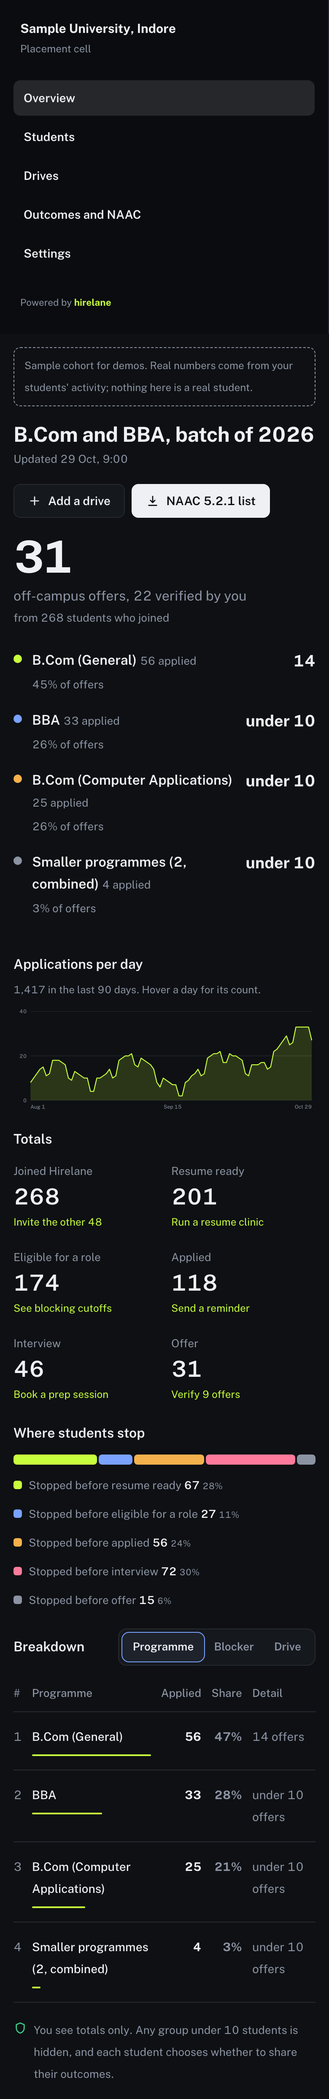
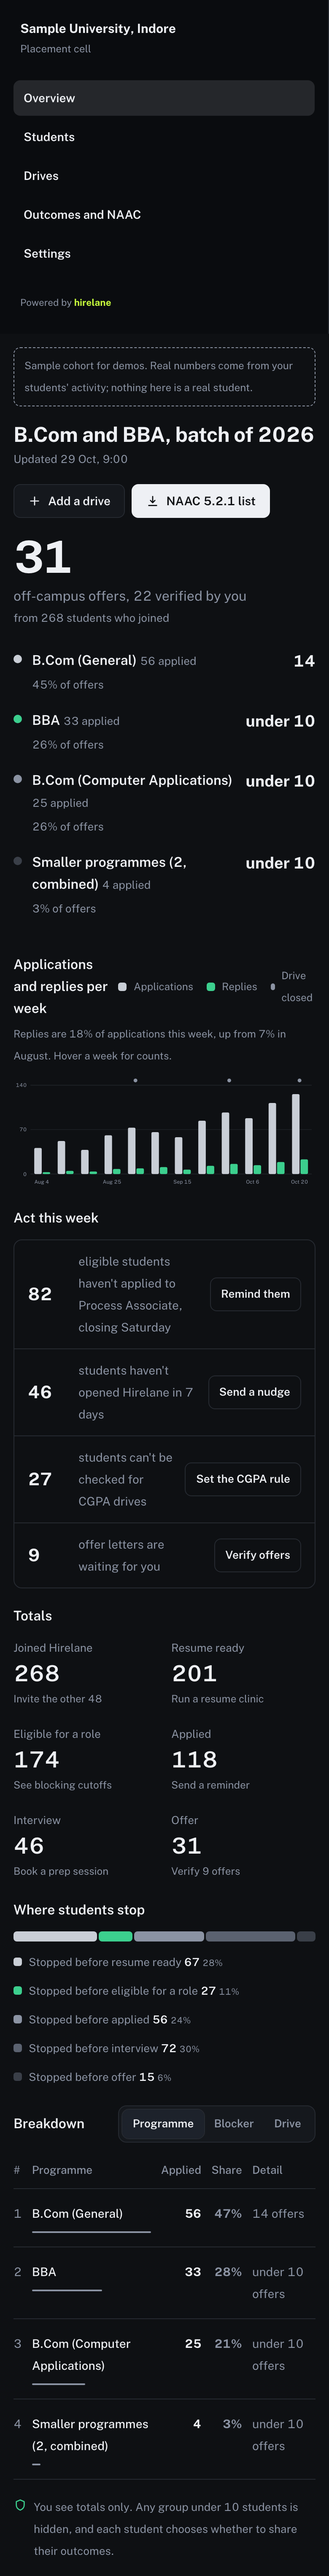
feat(web): console overview built for decisions (weekly applications vs replies with drive markers, Act this week list); calm grey palette with one green accent

diff --git a/apps/web/components/campus/Dash.tsx b/apps/web/components/campus/Dash.tsx
@@ -4,61 +4,58 @@ import { CampusShell, Icon, pct, Privacy, SampleNote } from "./Console";
 
 export type DashBy = "programme" | "blocker" | "drive";
 
-/** Deterministic sample series: applications per day for 90 days (Aug 1 to Oct 29). Real data: product_events. */
-function series(): number[] {
-  return Array.from({ length: 90 }, (_, i) => {
-    const wave = Math.sin(i / 4.2) * 6 + Math.sin(i / 11) * 4;
-    const trend = i * 0.18;
-    const weekday = i % 7 === 5 || i % 7 === 6 ? -5 : 0;
-    return Math.max(0, Math.round(8 + wave + trend + weekday));
-  });
-}
+/** Sample weekly series for 12 weeks: applications and employer replies, plus weeks a drive closed. Real data: applications + inbound_messages. */
+const WEEKS = ["Aug 4", "Aug 11", "Aug 18", "Aug 25", "Sep 1", "Sep 8", "Sep 15", "Sep 22", "Sep 29", "Oct 6", "Oct 13", "Oct 20"];
+const APPS = [41, 52, 38, 61, 73, 66, 58, 84, 97, 88, 112, 126];
+const REPLIES = [3, 5, 4, 8, 9, 11, 7, 13, 16, 14, 19, 23];
+const DRIVE_WEEKS: Record<number, string> = { 4: "Bank drive closed", 8: "Mass recruiter drive closed", 11: "Process Associate drive closed" };
 
-const W = 640;
-const H = 220;
-const PAD = { l: 36, r: 8, t: 8, b: 24 };
-
-function AreaChart({ data }: { data: number[] }) {
-  const max = Math.ceil(Math.max(...data) / 10) * 10 || 10;
-  const x = (i: number) => PAD.l + (i / (data.length - 1)) * (W - PAD.l - PAD.r);
-  const y = (v: number) => PAD.t + (1 - v / max) * (H - PAD.t - PAD.b);
-  const line = data.map((v, i) => `${i ? "L" : "M"}${x(i).toFixed(1)},${y(v).toFixed(1)}`).join(" ");
-  const area = `${line} L${x(data.length - 1)},${y(0)} L${x(0)},${y(0)} Z`;
-  const ticks = [0, max / 2, max];
-  const labels = [
-    { i: 0, t: "Aug 1" },
-    { i: 45, t: "Sep 15" },
-    { i: 89, t: "Oct 29" },
-  ];
-  const day = (i: number) => {
-    const d = new Date(Date.UTC(2026, 7, 1 + i));
-    return d.toLocaleDateString("en-IN", { day: "numeric", month: "short", timeZone: "UTC" });
-  };
+function WeeklyBars() {
+  const W = 640;
+  const H = 240;
+  const P = { l: 36, r: 8, t: 24, b: 28 };
+  const max = 140;
+  const slot = (W - P.l - P.r) / WEEKS.length;
+  const bw = slot * 0.32;
+  const y = (v: number) => P.t + (1 - v / max) * (H - P.t - P.b);
   return (
-    <svg className="dk-chart" viewBox={`0 0 ${W} ${H}`} role="img" aria-label={`Applications per day, Aug 1 to Oct 29. Peak ${Math.max(...data)} in a day.`}>
-      {ticks.map((t) => (
+    <svg className="dk-chart" viewBox={`0 0 ${W} ${H}`} role="img" aria-label={`Applications and replies per week for 12 weeks. Latest week: ${APPS[11]} applications, ${REPLIES[11]} replies.`}>
+      {[0, 70, 140].map((t) => (
         <g key={t}>
-          <line x1={PAD.l} x2={W - PAD.r} y1={y(t)} y2={y(t)} className="dk-grid" />
-          <text x={PAD.l - 8} y={y(t) + 4} className="dk-axis" textAnchor="end">
+          <line x1={P.l} x2={W - P.r} y1={y(t)} y2={y(t)} className="dk-grid" />
+          <text x={P.l - 8} y={y(t) + 4} className="dk-axis" textAnchor="end">
             {t}
           </text>
         </g>
       ))}
-      <path d={area} className="dk-area" />
-      <path d={line} className="dk-line" />
-      {labels.map((l) => (
-        <text key={l.t} x={x(l.i)} y={H - 6} className="dk-axis" textAnchor={l.i === 0 ? "start" : l.i === 89 ? "end" : "middle"}>
-          {l.t}
-        </text>
-      ))}
-      {data.map((v, i) => (
-        <rect key={i} className="dk-hit" x={x(i) - 3.5} y={PAD.t} width={7} height={H - PAD.t - PAD.b}>
-          <title>{`${day(i)}: ${v} applications`}</title>
-        </rect>
-      ))}
+      {WEEKS.map((w, i) => {
+        const x0 = P.l + i * slot + slot * 0.16;
+        return (
+          <g key={w}>
+            <rect x={x0} y={y(APPS[i]!)} width={bw} height={y(0) - y(APPS[i]!)} rx="3" className="dk-bar-a" />
+            <rect x={x0 + bw + 2} y={y(REPLIES[i]!)} width={bw} height={y(0) - y(REPLIES[i]!)} rx="3" className="dk-bar-b" />
+            {DRIVE_WEEKS[i] ? <circle cx={x0 + bw} cy={P.t - 10} r="4" className="dk-marker" /> : null}
+            {i % 3 === 0 || i === WEEKS.length - 1 ? (
+              <text x={x0 + bw} y={H - 8} className="dk-axis" textAnchor="middle">
+                {w}
+              </text>
+            ) : null}
+            <rect x={P.l + i * slot} y={P.t - 18} width={slot} height={H - P.t - P.b + 18} className="dk-hit">
+              <title>{`Week of ${w}: ${APPS[i]} applications, ${REPLIES[i]} replies (${Math.round((REPLIES[i]! / APPS[i]!) * 100)}%)${DRIVE_WEEKS[i] ? `. ${DRIVE_WEEKS[i]}` : ""}`}</title>
+            </rect>
+          </g>
+        );
+      })}
     </svg>
   );
 }
+
+const ACT = [
+  { n: 82, text: "eligible students haven't applied to Process Associate, closing Saturday", cta: "Remind them", href: "/campus/drives" },
+  { n: 46, text: "students haven't opened Hirelane in 7 days", cta: "Send a nudge", href: "#" },
+  { n: 27, text: "students can't be checked for CGPA drives", cta: "Set the CGPA rule", href: "/campus/settings" },
+  { n: 9, text: "offer letters are waiting for you", cta: "Verify offers", href: "/campus/outcomes" },
+];
 
 const PROGRAMME_ROWS = [
   { name: "B.Com (General)", count: 56, offers: 14, dot: "a" },
@@ -69,8 +66,6 @@ const PROGRAMME_ROWS = [
 
 /** Placement console overview in the dark analytics register the owner picked (2026-10-29). No client JS. */
 export function CampusDash({ data, by }: { data: CampusOverview; by: DashBy }) {
-  const s = series();
-  const total = s.reduce((a, b) => a + b, 0);
   const joined = data.funnel[0]?.count ?? 0;
   const stops = data.funnel.slice(0, -1).map((f, i) => ({ label: `Stopped before ${data.funnel[i + 1]!.label.toLowerCase()}`, n: f.count - data.funnel[i + 1]!.count }));
   const stopTotal = stops.reduce((a, b) => a + b.n, 0);
@@ -122,10 +117,38 @@ export function CampusDash({ data, by }: { data: CampusOverview; by: DashBy }) {
             ))}
           </ul>
         </div>
-        <div>
-          <h2 className="dk-h">Applications per day</h2>
-          <p className="dk-sub">{total.toLocaleString("en-IN")} in the last 90 days. Hover a day for its count.</p>
-          <AreaChart data={s} />
+        <div className="dk-right">
+          <div className="dk-row-head">
+            <h2 className="dk-h">Applications and replies per week</h2>
+            <ul className="dk-key" aria-hidden="true">
+              <li>
+                <span className="dk-sq" data-c="0" />
+                Applications
+              </li>
+              <li>
+                <span className="dk-sq" data-c="1" />
+                Replies
+              </li>
+              <li>
+                <span className="dk-mk" />
+                Drive closed
+              </li>
+            </ul>
+          </div>
+          <p className="dk-sub">
+            Replies are {Math.round((REPLIES[11]! / APPS[11]!) * 100)}% of applications this week, up from {Math.round((REPLIES[0]! / APPS[0]!) * 100)}% in August. Hover a week for counts.
+          </p>
+          <WeeklyBars />
+          <h2 className="dk-h dk-act-h">Act this week</h2>
+          <ul className="dk-act">
+            {ACT.map((a) => (
+              <li key={a.cta}>
+                <b>{a.n}</b>
+                <span>{a.text}</span>
+                <Link href={a.href}>{a.cta}</Link>
+              </li>
+            ))}
+          </ul>
         </div>
       </section>
 

diff --git a/apps/web/app/campus.css b/apps/web/app/campus.css
@@ -1462,15 +1462,15 @@ body {
   --cp-warn-soft: #33240d;
   --cp-risk: #f87171;
   --cp-risk-soft: #3a1717;
-  --cp-bar: #c8ff3d;
+  --cp-bar: #c9ced6;
   --cp-bar-track: #22262d;
   --cp-drop-hatch: #5a2626;
-  --dk-series: #c8ff3d;
-  --dk-c0: #c8ff3d;
-  --dk-c1: #7aa2ff;
-  --dk-c2: #f5b14c;
-  --dk-c3: #ff7a9a;
-  --dk-c4: #8b93a3;
+  --dk-series: #3ccf8e;
+  --dk-c0: #c9ced6;
+  --dk-c1: #3ccf8e;
+  --dk-c2: #8b93a3;
+  --dk-c3: #5b6270;
+  --dk-c4: #3a3f48;
   background: var(--cp-paper);
   color-scheme: dark;
 }
@@ -1624,7 +1624,7 @@ body {
 
 .dk-totals a {
   font-size: 0.8125rem;
-  color: var(--dk-series);
+  color: var(--cp-muted);
   text-underline-offset: 4px;
 }
 
@@ -1689,7 +1689,7 @@ body {
 .dk-seg a[aria-current="page"] {
   background: var(--cp-navy-soft);
   color: var(--cp-ink);
-  outline: 1px solid var(--dk-c1);
+  outline: 1px solid var(--cp-line);
 }
 
 .dk-table {
@@ -1729,7 +1729,7 @@ body {
   height: 2px;
   margin-top: 8px;
   border-radius: 1px;
-  background: var(--dk-series);
+  background: var(--cp-muted);
 }
 
 @media (max-width: 960px) {
@@ -1745,4 +1745,79 @@ body {
     display: block;
     overflow-x: auto;
   }
+}
+
+.dk-bar-a { fill: var(--dk-c0); }
+.dk-bar-b { fill: var(--dk-c1); }
+.dk-marker { fill: var(--dk-c2); }
+
+.dk-key {
+  margin: 0;
+  padding: 0;
+  list-style: none;
+  display: flex;
+  gap: 16px;
+  font-size: 0.8125rem;
+  color: var(--cp-muted);
+}
+
+.dk-key li {
+  display: inline-flex;
+  align-items: center;
+}
+
+.dk-mk {
+  width: 8px;
+  height: 8px;
+  margin-right: 8px;
+  border-radius: 999px;
+  background: var(--dk-c2);
+}
+
+.dk-act-h {
+  margin-top: 24px;
+}
+
+.dk-act {
+  margin: 12px 0 0;
+  padding: 0;
+  list-style: none;
+  border: 1px solid var(--cp-line);
+  border-radius: var(--cp-radius);
+}
+
+.dk-act li {
+  display: grid;
+  grid-template-columns: 48px minmax(0, 1fr) auto;
+  gap: 12px;
+  align-items: center;
+  padding: 12px 16px;
+}
+
+.dk-act li + li {
+  border-top: 1px solid var(--cp-line);
+}
+
+.dk-act b {
+  font-size: 1.375rem;
+  font-variant-numeric: tabular-nums;
+}
+
+.dk-act span {
+  color: var(--cp-muted);
+  font-size: 0.9375rem;
+}
+
+.dk-act a {
+  padding: 6px 12px;
+  border-radius: 8px;
+  border: 1px solid var(--cp-line);
+  font-size: 0.875rem;
+  font-weight: 600;
+  text-decoration: none;
+  white-space: nowrap;
+}
+
+.dk-act a:hover {
+  background: var(--cp-navy-soft);
 }
